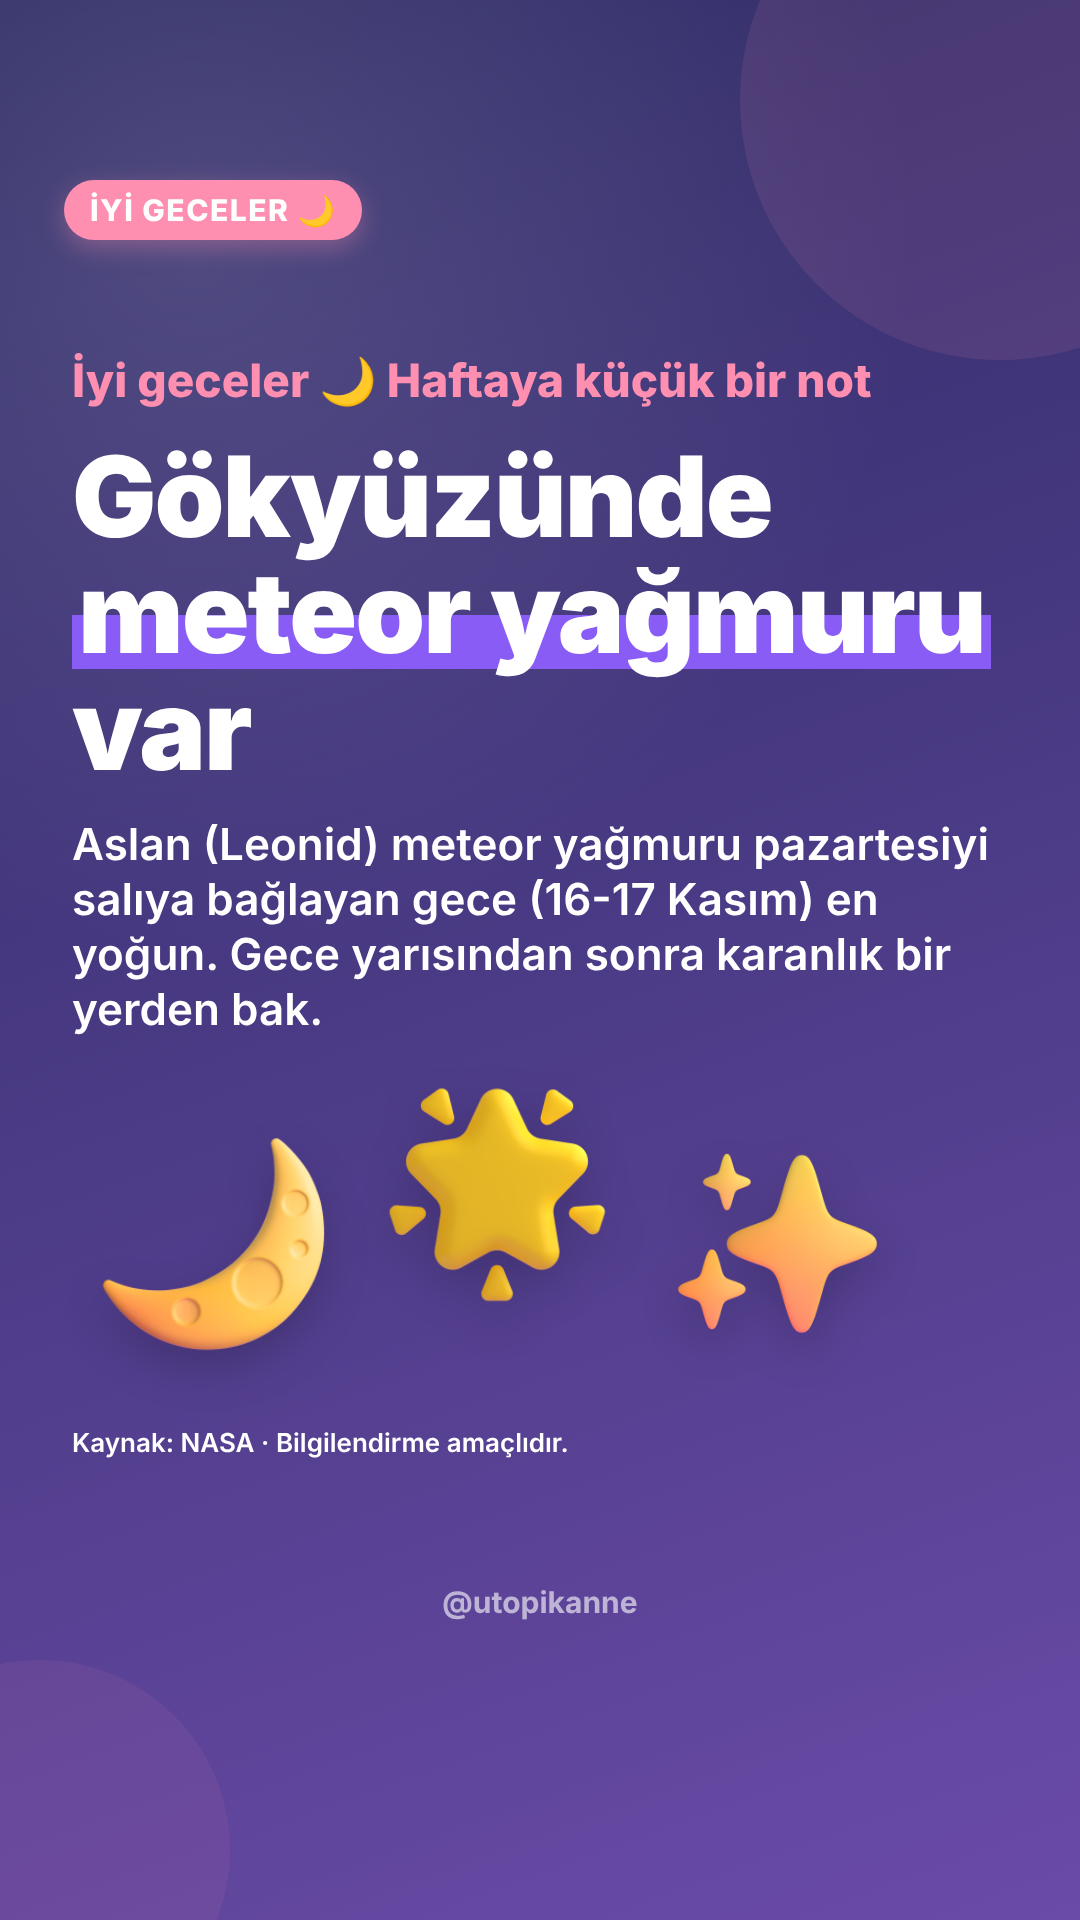
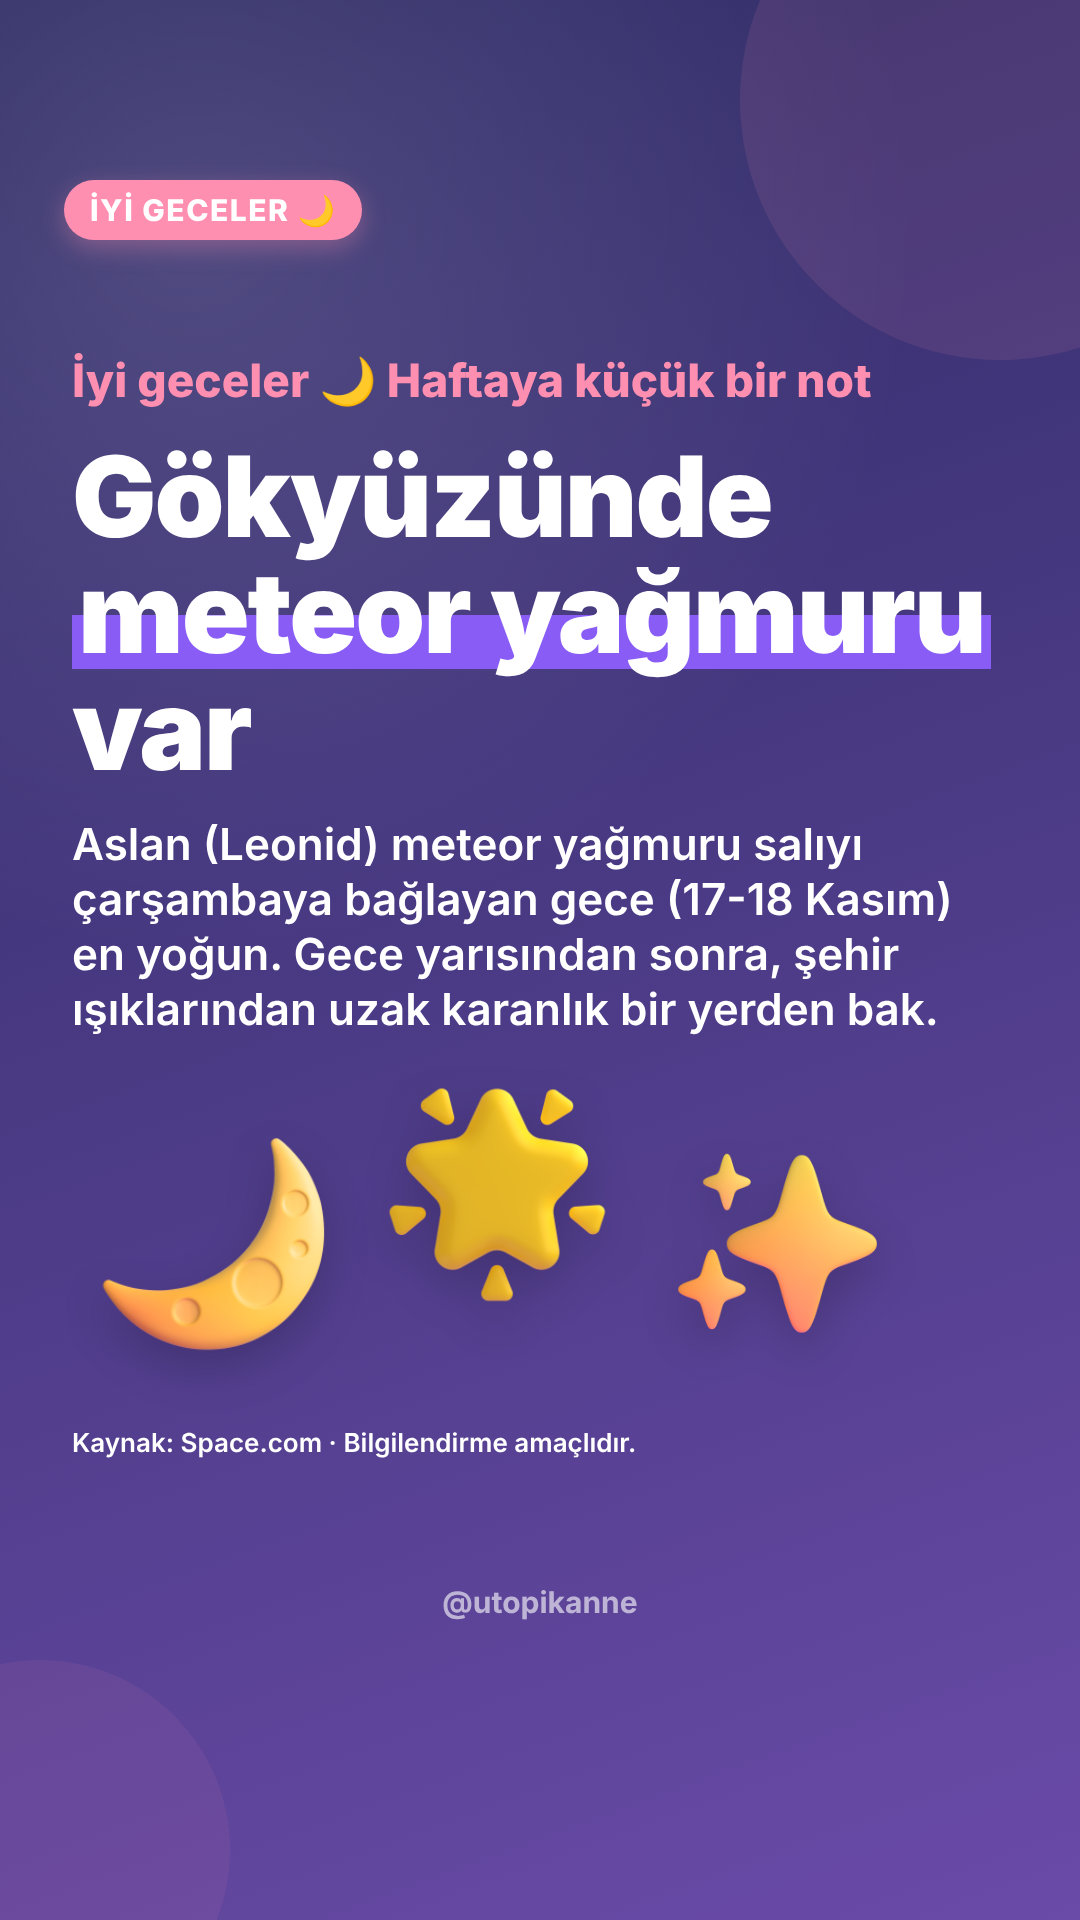
utopikanne 14 Kasım iyi geceler: Leonid tarihi düzeltildi (17-18 Kasım)
Claude-Session: https://claude.ai/code/session_01QGX4XsF2fmNtuvzmoWMg9N

Changed region(s): [[0.0611, 0.4375, 0.9167, 0.5625], [0.1833, 0.75, 0.4889, 0.7812], [0.5194, 0.75, 0.5806, 0.7812]]

diff --git a/hesaplar/utopikanne/strateji.md b/hesaplar/utopikanne/strateji.md
@@ -13,6 +13,7 @@
 - İYİ GECELER: ciddi ve bilgili. ŞİİR/EDEBİ SÖZ YOK (şair rolü iptal). Şunlardan biri: (a) tarihli bilgi ("Yarın 14 Kasım Dünya Diyabet Günü..." / "Tarihte bugün..."), (b) yarın Türkiye'de dikkat çeken bir hava olayı varsa (MGM uyarısı: lodos, fırtına, kar, sağanak) hangi illeri etkilediği, kaynak MGM; yoksa (a).
 - (12 Kasım 16:14, örnek havaforum) İyi geceler hava uyarısı görünümü: büyük rakam, kısa başlık ("Yarın lodos geliyor", "Sıcaklıklar 8 derece düşüyor"), etkilenen iller listesi, tek görsel. Veriyi MGM'den kendimiz al, başka sayfanın görselini/verisini kopyalama. Sadece dikkat çeken bir hava olayı varsa; her gün hava YOK.
 - (16:17 EKİP KARARI) İyi geceler = "YARIN İÇİN KÜÇÜK NOT 🌙" serisi, her gece TEK not, dönüşümlü: (1) yarının özel/farkındalık günü (Dünya Prematüre Günü 17 Kasım, Dünya Çocuk Hakları Günü 20 Kasım, Öğretmenler Günü 24 Kasım vb.), (2) gökyüzü olayı (dolunay, meteor yağmuru; tarih/saat resmî gözlemevi ya da NASA'dan), (3) Türkiye geneli dikkat çeken hava uyarısı (MGM). YAPILMAYACAK: market kampanyası/indirim (ürün tanıtımı yok), ne giysek, tek şehrin derecesi, gün doğumu saati, hava kalitesi.
+- (13 Kasım 00:29) 12 Kasım iyi geceler ("Çay yine soğudu..." edebi/esprili söz) KÖTÜ bulundu, Melike sildi. Edebi/esprili söz bir daha YOK; yalnızca "Yarın için küçük not" (özel gün / gökyüzü / hava uyarısı).
 - Melike kendi story'lerini de atacak: ekip story'si günde en fazla 6 (günaydın, 2 soru+cevap, iyi geceler). Anonim değil bilgili bir anne sayfası gibi dursun.
 - Instagram'a ek istek yok: kontrol/analiz/test çağrısı yapma, sadece kuyruk yayını.
 
